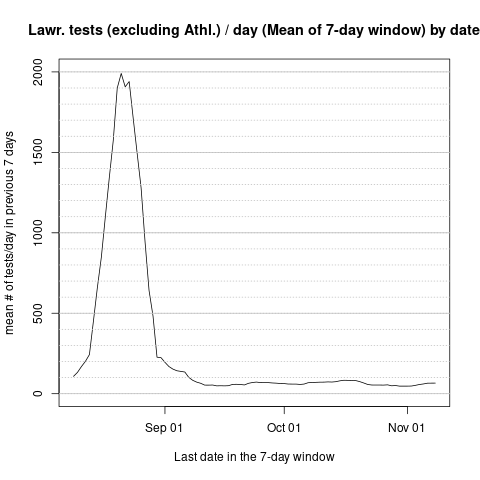
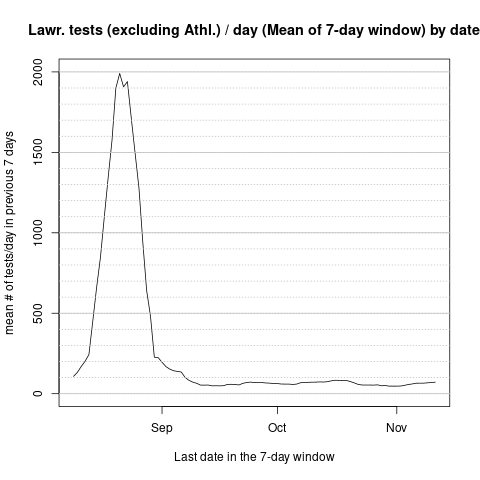
up to Nov 11

diff --git a/README.md b/README.md
@@ -43,6 +43,7 @@ Currently the reports are for the periods:
    * [Oct 26 to Nov 01](https://protect.ku.edu/sites/protect/files/documents/Dashboard/COVID-19_Dashboard_Oct26toNov1.pdf) 
    * [Oct 29 to Nov 04](https://protect.ku.edu/sites/protect/files/documents/Dashboard/COVID-19_Dashboard_Oct29toNov4.pdf)
    * [Nov 02 to Nov 08](https://protect.ku.edu/sites/protect/files/documents/Dashboard/COVID-19_Dashboard_Nov2toNov8.pdf) 
+   * [Nov 05 to Nov 11](https://protect.ku.edu/sites/protect/files/documents/Dashboard/COVID-19_Dashboard_Nov5toNov11.pdf) 
 
 None of the reports trace the test-positivity percentage over time, which I was interested in.
 For a time-series of test-positivity rates to be easily interpreted as a proxy of the campus-wide prevalence of SARS-CoV-2 infections, it is important to either have detailed knowledge of the biases associated with targeted testing, or to focus on the entry tests and "randomized prevalence testing."
